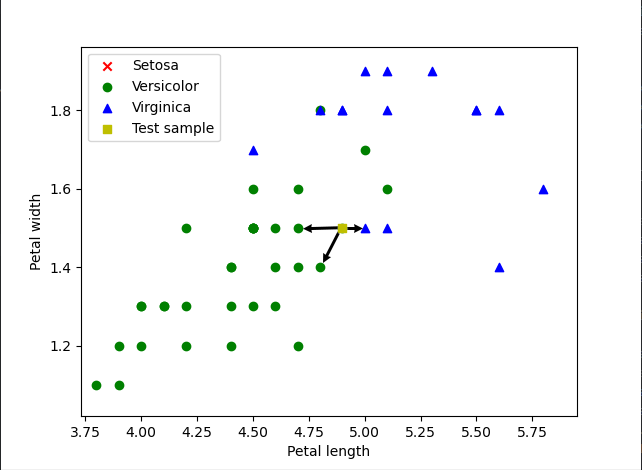
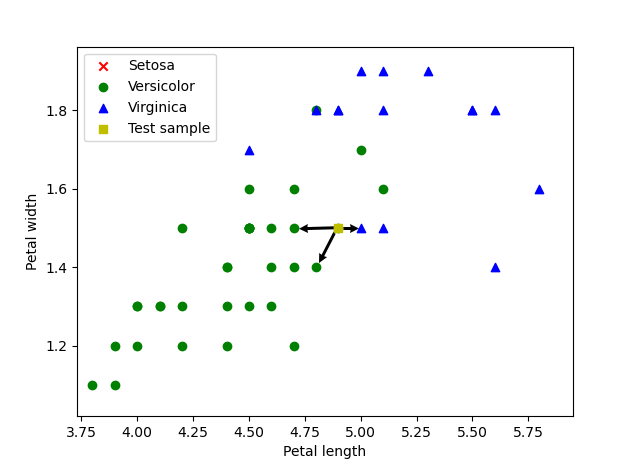
modify perceptron to show classes -1/1 and add new datasets
Changes included in this commit:
- Modify perceptron to show classes -1 and 1 instead of 1 and 2
- Add new pixel dataset
- Edit max epochs of the perceptron initialization in main method
- Edit range of minimum and maximum values of x and y axis to be
  more dynamic
- Fix pictures incorrectly showing left and right border
- Replace perceptron's README picture to show the new database

diff --git a/machine-learning/perceptron/main.py b/machine-learning/perceptron/main.py
@@ -3,7 +3,12 @@ import numpy as np
 import perceptron
 
 def load_dataset(option):
-    if option == 1:
+    if option == 2:
+        dataset = np.genfromtxt('datasets/classification_pixel_data.csv', delimiter=',')
+        augmented_matrix = np.ones((dataset.shape[0], 1), dtype = float)
+        augmented_matrix = np.column_stack((augmented_matrix, dataset))
+        return augmented_matrix.T
+    elif option == 1:
         # Read and generate the third and forth feature of the dataset
         dataset_values = np.genfromtxt('datasets/iris.data', delimiter=',')[0:100, [2,3]]
         
@@ -43,19 +48,17 @@ def showMenu():
             elif selection == 2:
                 print("Please enter your choice:\n" +
                     "1. Iris dataset\n" +
-                    "2. Custom test dataset\n")
+                    "2. Pixel classification dataset\n" +
+                    "3. Custom test dataset\n")
                 selection = int(input("Your selection: "))
-                if selection > 0 and selection < 3: 
+                if selection > 0 and selection < 4: 
                     dataset = load_dataset(selection)
                     neuron.train(dataset)
             elif selection == 3:
                 point_x = int(input("Enter point's x: "))
                 point_y = int(input("Enter point's y: "))
-                guess_point = np.array([1, point_x, point_y])
-                if neuron.guess(guess_point) == -1:
-                    print("Perceptron's guess: Class 1.\n")
-                else:
-                    print("Perceptron's guess: Class 2.\n")
+                prediction = neuron.guess(np.array([1, point_x, point_y]))
+                print("Perceptron's class prediction: " + prediction + ".\n")
             else: 
                 raise ValueError
         except ValueError:
@@ -65,5 +68,5 @@ def showMenu():
 
 if __name__ == "__main__":
     # Create a single perceptron with 2 features
-    neuron = perceptron.Perceptron(maxEpochs = 10, learning_rate = 0.1, features = 2)
+    neuron = perceptron.Perceptron(maxEpochs = 3000, learning_rate = 0.1, features = 2)
     showMenu()

diff --git a/machine-learning/perceptron/perceptron.py b/machine-learning/perceptron/perceptron.py
@@ -27,10 +27,10 @@ class Perceptron():
     def train(self, dataset):
         x = np.delete(dataset, dataset.shape[0]-1, 0)           # Array holding sample data
         target = dataset[-1]                                    # Array representing the desired output of the neuron    
-        x_min = np.amin(x[1]) - 0.5
-        x_max = np.amax(x[1]) + 0.5
-        y_min = np.amin(x[2]) - 0.5
-        y_max = np.amax(x[2]) + 0.5
+        x_min = np.amin(x[1]) * 0.9
+        x_max = np.amax(x[1]) * 1.1
+        y_min = np.amin(x[2]) * 0.9
+        y_max = np.amax(x[2]) * 1.1
 
         # Iterate through each epoch
         for epoch in range (0, self.maxEpochs + 1):             # Iterate through the epochs given
@@ -59,19 +59,19 @@ class Perceptron():
             x_range = np.linspace(x_min, x_max, endpoint = True)
             y_intercept = - 1 * (self.w[0] / self.w[2]) - 1 * (self.w[1] / self.w[2]) * x_range
 
-            points1 = np.where(target == 1)
-            points2 = np.where(target == -1)
+            points1 = np.where(target == -1)
+            points2 = np.where(target == 1)
             plt.clf()
             plt.title('Perceptron training...')
             plt.xlabel('Feature 1')
             plt.ylabel("Feature 2")
             plt.xlim(x_min, x_max)
             plt.ylim(y_min, y_max)
-            plt.scatter(x[1, points1], x[2, points1], marker='x', color='b', label='Class 1')
-            plt.scatter(x[1, points2], x[2, points2], marker='o', color='r', label='Class 2')
+            plt.scatter(x[1, points1], x[2, points1], marker='x', color='b', label='Class -1')
+            plt.scatter(x[1, points2], x[2, points2], marker='o', color='r', label='Class 1')
             plt.plot(x_range, y_intercept, linewidth=1, color='g')
             plt.legend(loc='upper right')
-            plt.pause(0.1)
+            plt.pause(0.001)
 
     def show_weights(self):
         print("Perceptron's weights:\t" + str(self.w) + "\n")
